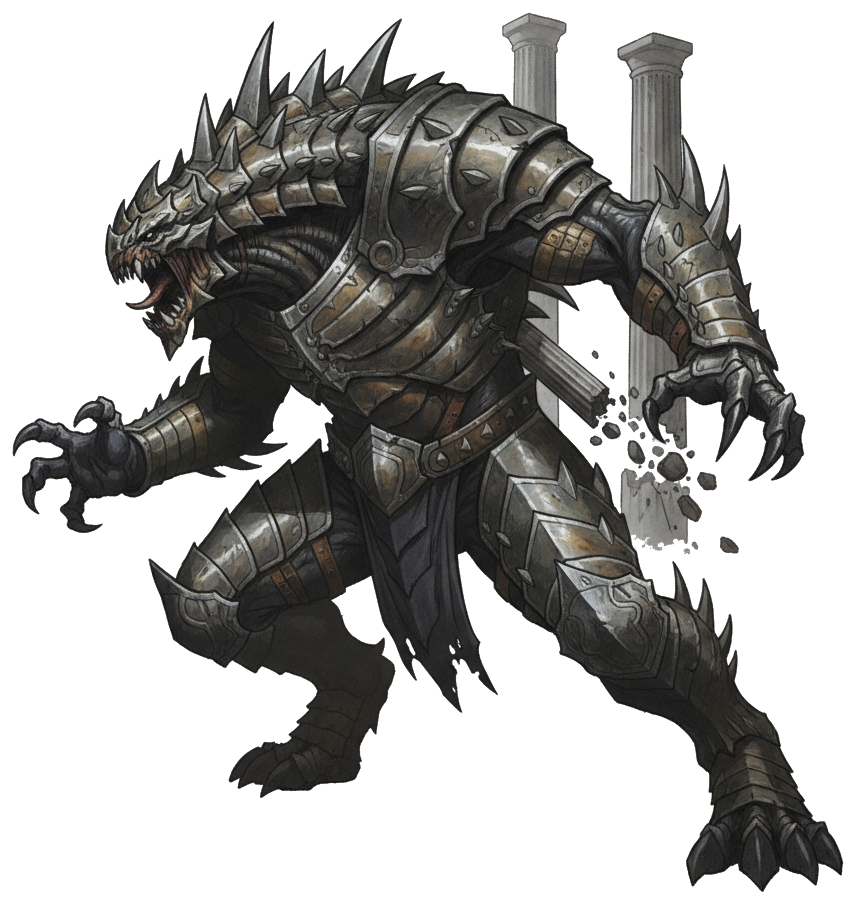
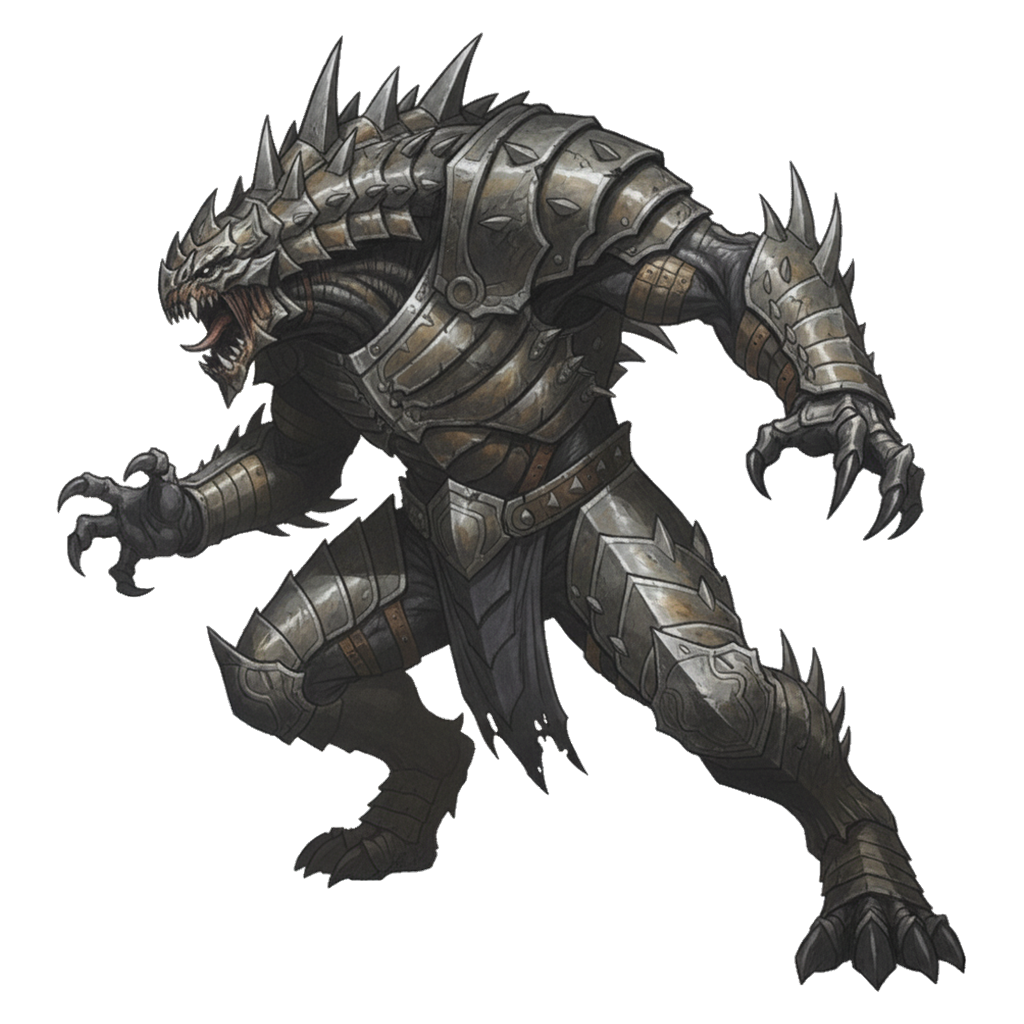
art(neutral): remove stone columns behind Gorgonoth (neutral_124) and bump cache to v37

Changed region(s): [[0.0, 0.0, 1.0, 0.9912], [0.4252, 0.7743, 0.4556, 0.8363]]

diff --git a/src/data/cards.ts b/src/data/cards.ts
@@ -31391,7 +31391,7 @@ export const ALL_CARDS: CardDefinition[] = [
     "description": "Guardião • Atropelar • Pele Incandescente. Ao Entrar: Causa 3 de dano a todas as unidades em campo.",
     "flavorText": "Ele não serve ao Fogo, nem ao Gelo, nem à Luz: ele é o fim de todos os tronos.",
     "imagePath": "/assets/cards/neutral_124_tarrasque_despertar_neutro.png",
-    "aiArtPrompt": "2D Dark Fantasy Castlevania (Ayami Kojima) meets Hades (Supergiant Games) heavy black ink cel-shaded art style, bold black ink outlines, sharp geometric cel-shading, isolated full-body subject centered on a pure solid flat white background (#FFFFFF), gunmetal steel, antique silver, obsidian, and weathered brass palette, Colossal spiked carapace Tarrasque kaiju monstrosity roaring and shattering stone pillars with massive claws."
+    "aiArtPrompt": "2D Dark Fantasy Castlevania (Ayami Kojima) meets Hades (Supergiant Games) heavy black ink cel-shaded art style, bold black ink outlines, sharp geometric cel-shading, isolated full-body subject centered on a pure solid flat white background (#FFFFFF), gunmetal steel, antique silver, obsidian, and weathered brass palette, Colossal spiked carapace Tarrasque kaiju monstrosity roaring with massive claws."
   },
   {
     "id": "neutral_125_estandarte_runa_krig",

diff --git a/src/components/CardView.tsx b/src/components/CardView.tsx
@@ -363,7 +363,7 @@ export const CardView: React.FC<CardViewProps> = ({
           <div className={`mtg-token-art aura-${displayCard.domain}`}>
             {!imgError && displayCard.imagePath ? (
               <img
-                src={`${displayCard.imagePath}?v=36`}
+                src={`${displayCard.imagePath}?v=37`}
                 alt={displayName}
                 className="mtg-token-img"
                 onError={() => setImgError(true)}
@@ -518,7 +518,7 @@ export const CardView: React.FC<CardViewProps> = ({
 
           {!imgError && displayCard.imagePath ? (
             <img
-              src={`${displayCard.imagePath}?v=36`}
+              src={`${displayCard.imagePath}?v=37`}
               alt={displayName}
               className="card-cutout-img"
               onError={() => setImgError(true)}
